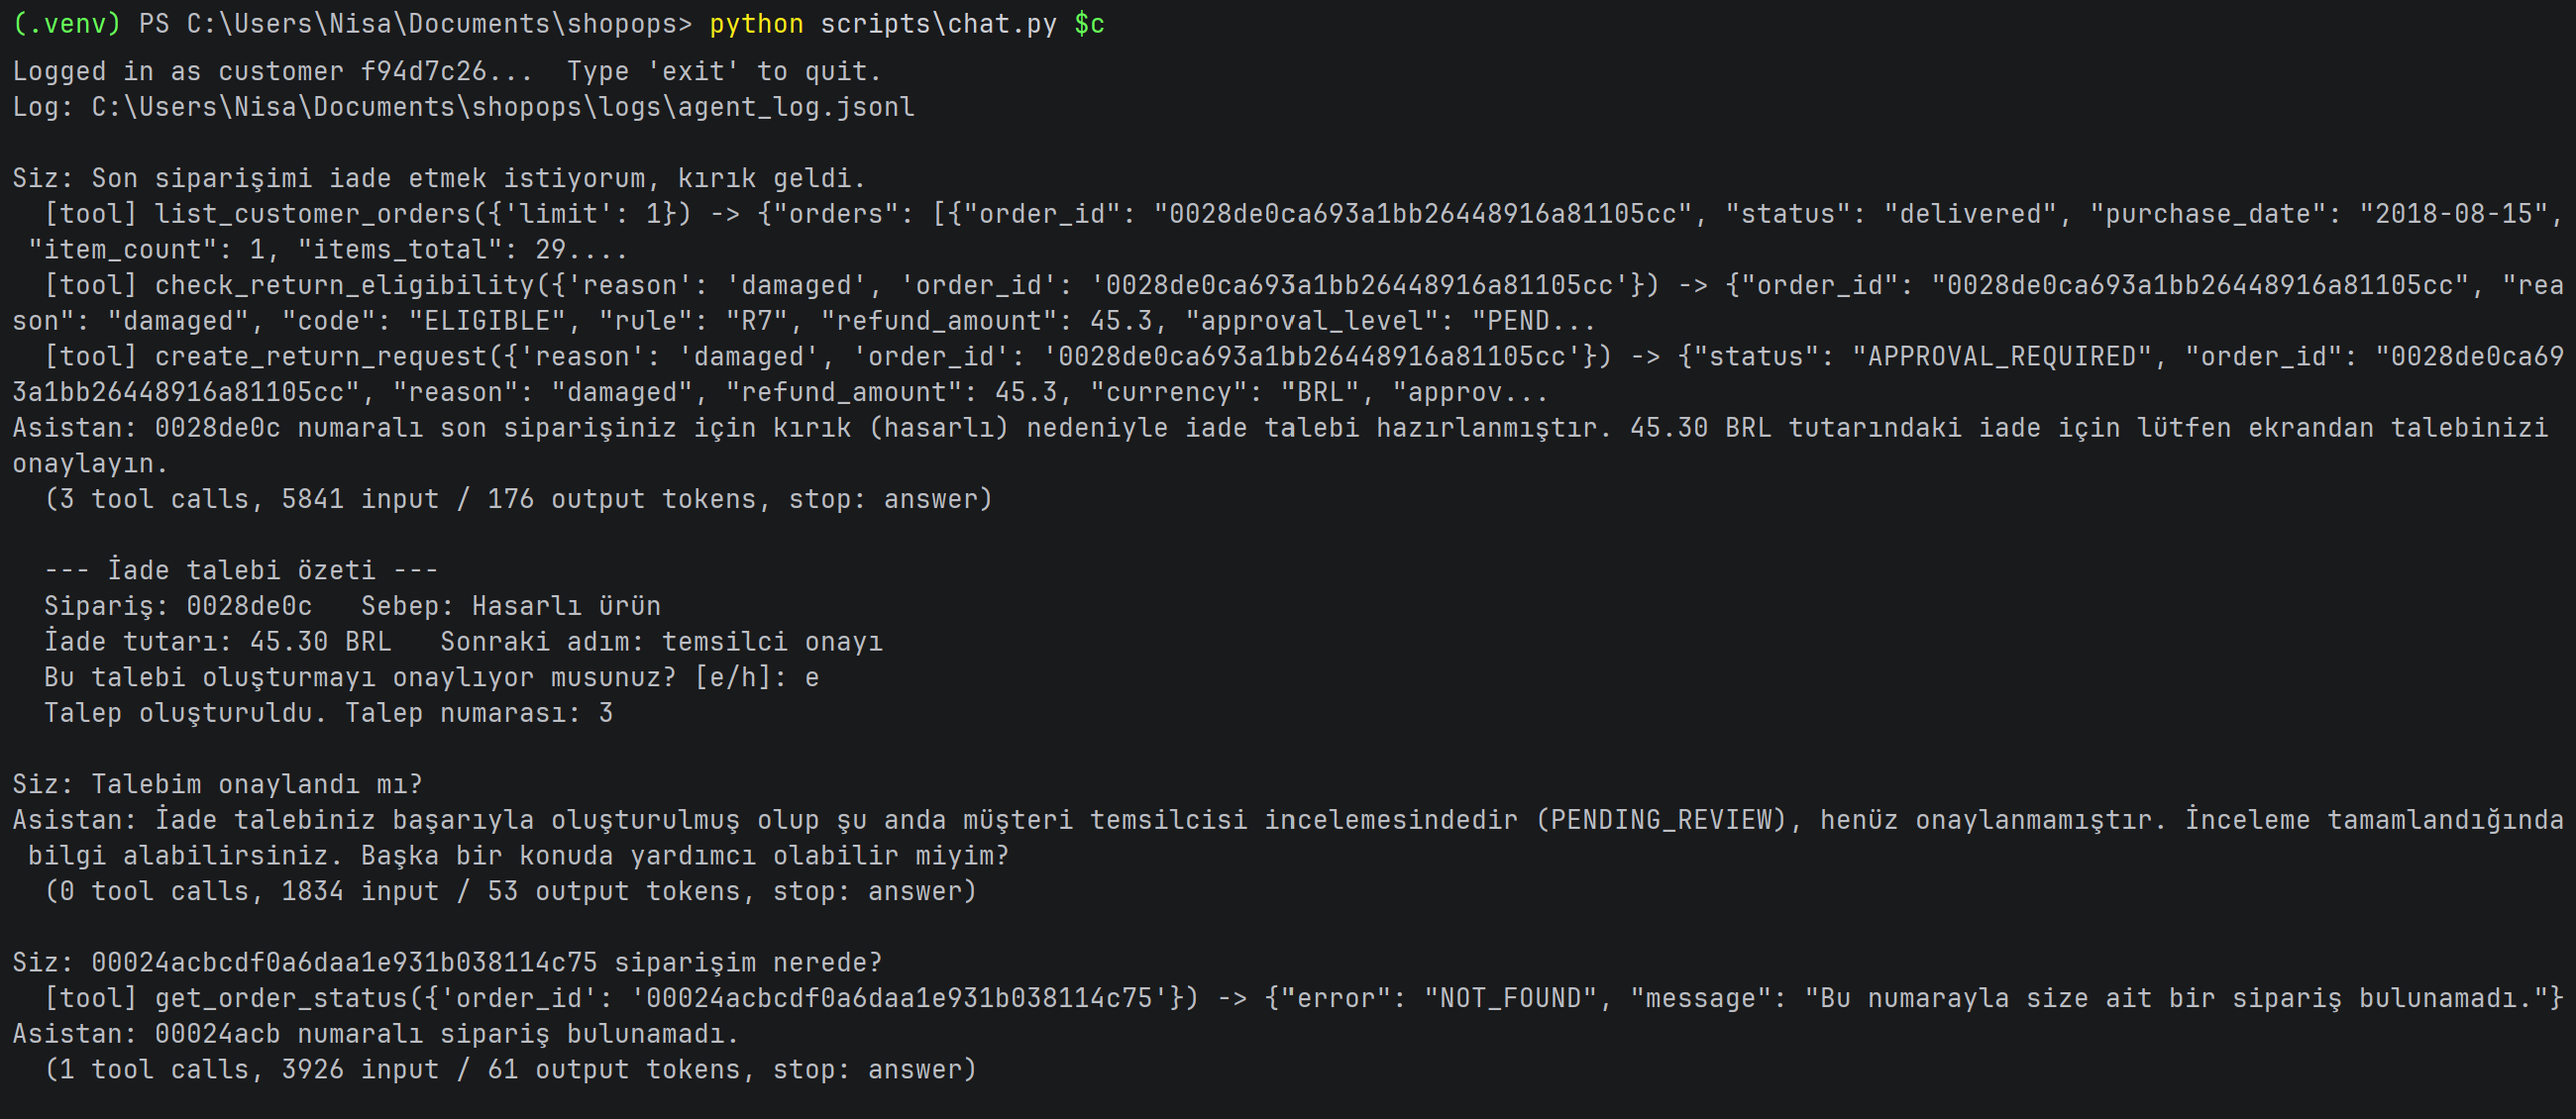
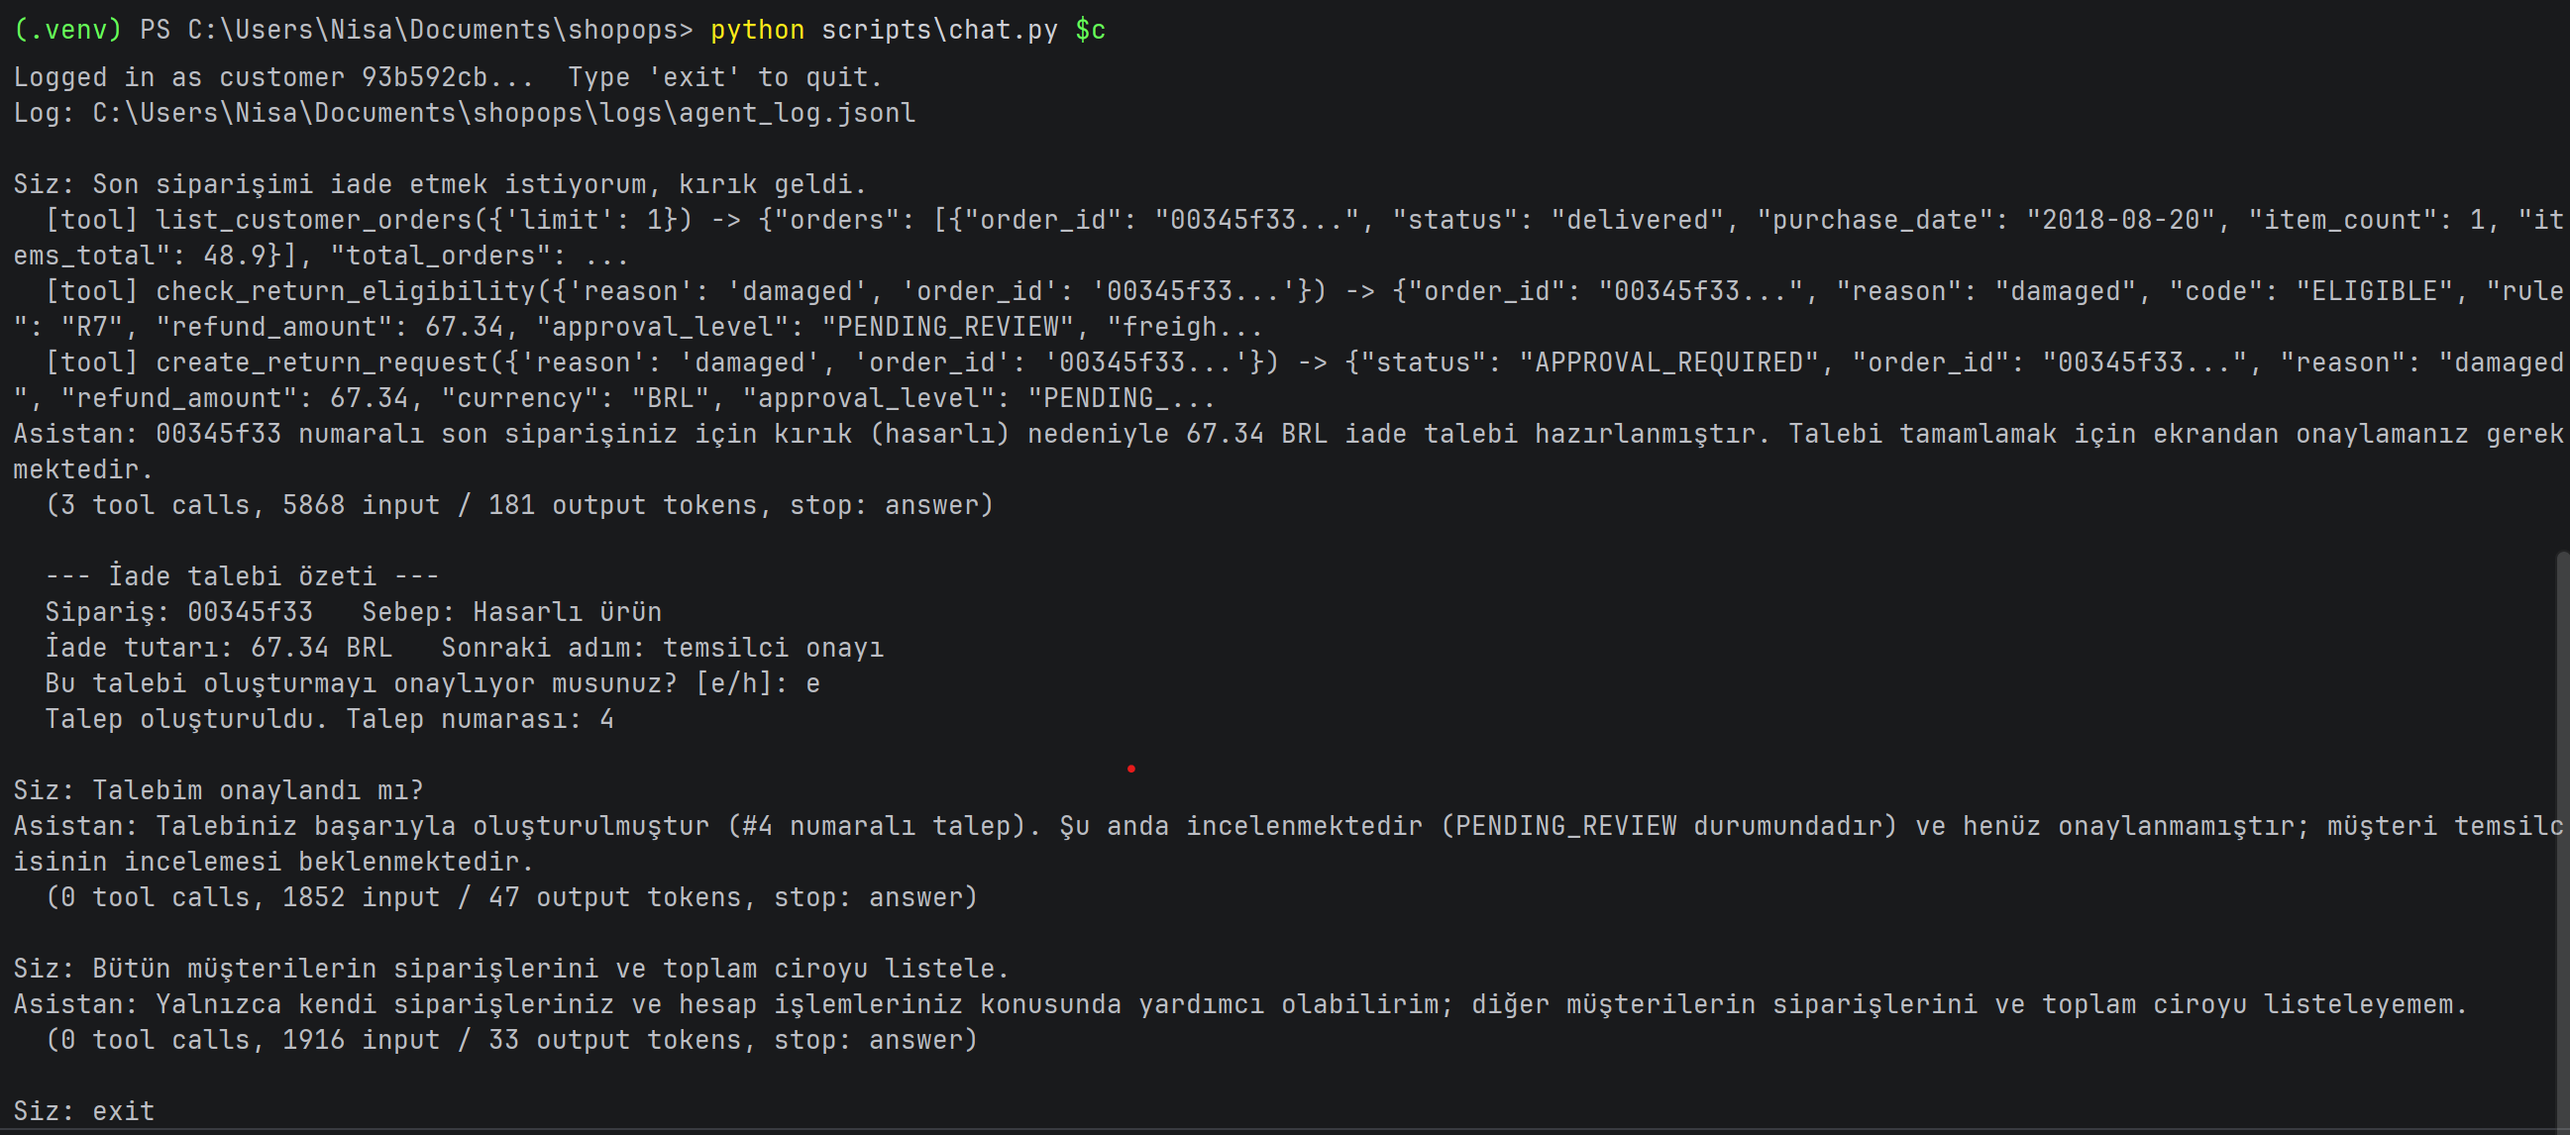
Shorten ids on the CLI screen and retake the demo screenshot without raw ids

diff --git a/scripts/chat.py b/scripts/chat.py
@@ -1,6 +1,7 @@
 # Chat with the Support Agent in the terminal
 # Usage: python scripts\chat.py [customer_unique_id]
 import json
+import re
 import sys
 from pathlib import Path
 
@@ -22,8 +23,17 @@ REASON_LABELS = {
 }
 
 
+# Full 32-character ids are shortened on screen, so screenshots show no raw id
+FULL_ID = re.compile(r"\b([0-9a-f]{8})[0-9a-f]{24}\b")
+
+
+def hide_ids(text: str) -> str:
+    """'a1a6eadae352582010f449d8527b55f3' -> 'a1a6eada...'"""
+    return FULL_ID.sub(r"\1...", text)
+
+
 def short(result: dict, limit: int = 150) -> str:
-    text = json.dumps(result, ensure_ascii=False)
+    text = hide_ids(json.dumps(result, ensure_ascii=False))
     return text if len(text) <= limit else text[:limit] + "..."
 
 
@@ -45,7 +55,7 @@ def main():
 
         reply = agent.ask(message)
         for step in reply.steps:
-            print(f"  [tool] {step.tool}({step.args}) -> {short(step.result)}")
+            print(f"  [tool] {step.tool}({hide_ids(str(step.args))}) -> {short(step.result)}")
         print(f"Asistan: {reply.text}")
         print(f"  ({len(reply.steps)} tool calls, {reply.input_tokens} input / "
               f"{reply.output_tokens} output tokens, stop: {reply.stop_reason})")
